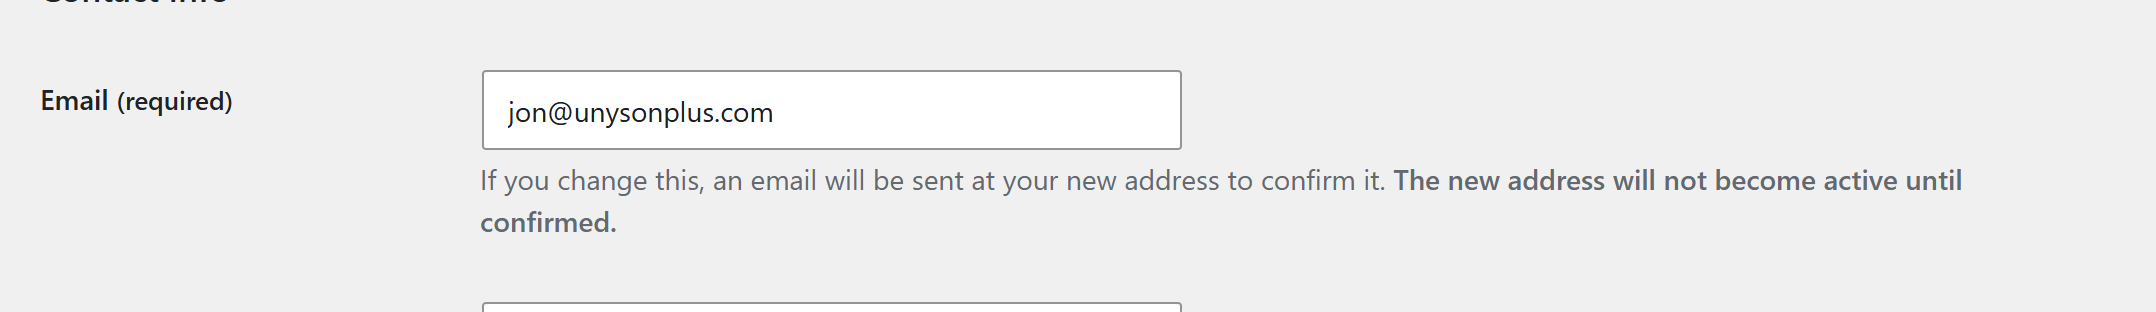
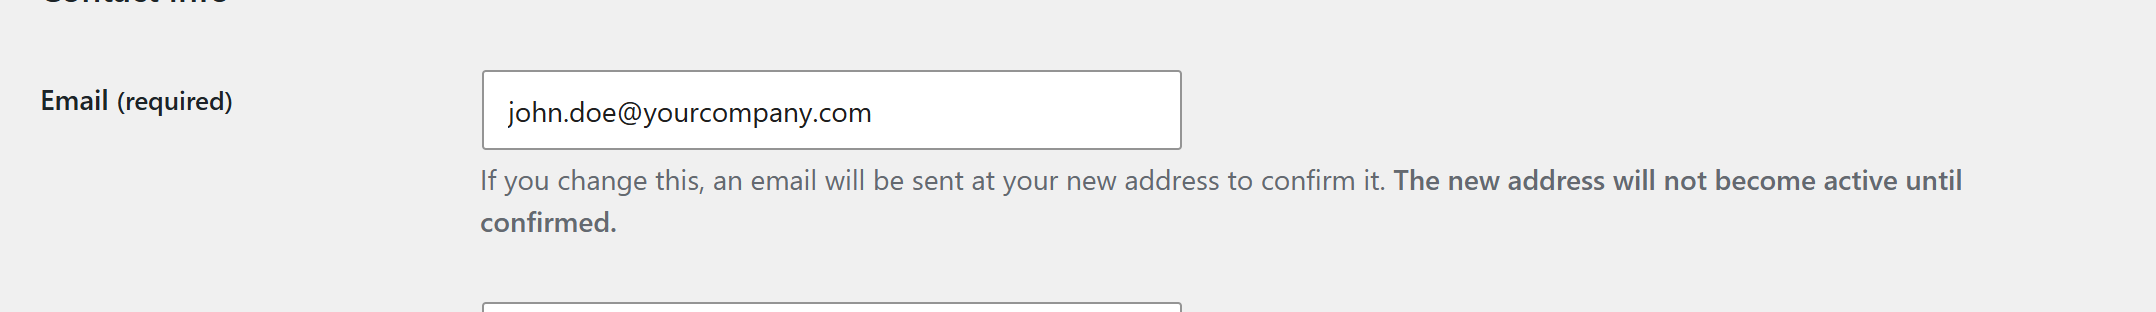
CRM docs: use a placeholder address in the email tutorial

Changed region(s): [[0.2486, 0.3173, 0.404, 0.4038]]

diff --git a/crm/sales/email-from-your-own-address.md b/crm/sales/email-from-your-own-address.md
@@ -9,7 +9,7 @@ keywords: [wordpress crm send email from my address, wordpress crm smtp, crm ema
 # Send email from your own address
 
 When you click **Email** on a contact, company or deal, the CRM sends a personal email for you. This tutorial
-makes those emails come from **your own address**, for example `jon@yourcompany.com`, and brings the replies back
+makes those emails come from **your own address**, for example `john.doe@yourcompany.com`, and brings the replies back
 to you and onto the contact's timeline.
 
 It takes about ten minutes. You need:
@@ -24,8 +24,8 @@ Three settings decide what the person you write to sees. Each step below sets on
 
 | What the reader sees | Where it comes from |
 |---|---|
-| **From name**: "Jon at Your Company" | Your **display name** in your WordPress profile, then "at", then the site's name |
-| **From address**: `jon@yourcompany.com` | The CRM's default **transactional sender** (CRM → Settings → Sending). With no sender set, the **Mailer's From address**. With neither, WordPress's own `wordpress@yourdomain` |
+| **From name**: "John at Your Company" | Your **display name** in your WordPress profile, then "at", then the site's name |
+| **From address**: `john.doe@yourcompany.com` | The CRM's default **transactional sender** (CRM → Settings → Sending). With no sender set, the **Mailer's From address**. With neither, WordPress's own `wordpress@yourdomain` |
 | **Reply-To**: where their reply goes | The **email address in your WordPress profile** |
 | **Your name under the message** | Your **display name** again |
 
@@ -33,7 +33,7 @@ How the email travels is separate: through the email service chosen on the sende
 SMTP server**, otherwise through your web host's own mail. Mail sent straight from a web host often lands in spam,
 so set up SMTP or an email service (step 2) even if the address already looks right.
 
-<img src="/img/crm/email-own-compose.png" alt="The New email box in the CRM, with Jon signed under the message and the note Replies go to jon@unysonplus.com" width="706" />
+<img src="/img/crm/email-own-compose.png" alt="The New email box in the CRM, with John signed under the message and the note Replies go to john.doe@yourcompany.com" width="706" />
 
 The email box shows the result before you send: the name under the message, and **Replies go to** with your address.
 
@@ -41,15 +41,15 @@ The email box shows the result before you send: the name under the message, and 
 
 Open **Users → Profile** (your own profile, top right of the admin bar).
 
-1. Under **Name**, set **Display name publicly as** to the name you sign with, such as "Jon". The CRM uses it as
+1. Under **Name**, set **Display name publicly as** to the name you sign with, such as "John". The CRM uses it as
    the From name and puts it under each new message.
 
-   <img src="/img/crm/email-own-profile-name.png" alt="The Display name publicly as field set to Jon" width="1078" />
+   <img src="/img/crm/email-own-profile-name.png" alt="The Display name publicly as field set to John" width="1078" />
 
-2. Under **Contact Info**, set **Email** to your own address, such as `jon@yourcompany.com`. Replies to your CRM
+2. Under **Contact Info**, set **Email** to your own address, such as `john.doe@yourcompany.com`. Replies to your CRM
    emails go here.
 
-   <img src="/img/crm/email-own-profile-email.png" alt="The Email field in the WordPress profile set to jon@unysonplus.com, with the note that a confirmation email is sent to the new address" width="1078" />
+   <img src="/img/crm/email-own-profile-email.png" alt="The Email field in the WordPress profile set to john.doe@yourcompany.com, with the note that a confirmation email is sent to the new address" width="1078" />
 
 3. Click **Update Profile**.
 
@@ -70,7 +70,7 @@ Open **CRM → Settings**, scroll to **Sending** and click **Mailer settings (SM
 site sends now. (The Mailer comes with the Forms extension; contact forms show the same settings in their **Mailer**
 tab.)
 
-<img src="/img/crm/email-own-mailer.png" alt="Mailer Settings: send method SMTP, server mail.unysonplus.com, user name and From address jon@unysonplus.com, SSL on port 465" width="1758" />
+<img src="/img/crm/email-own-mailer.png" alt="Mailer Settings: send method SMTP, server mail.yourcompany.com, user name and From address john.doe@yourcompany.com, SSL on port 465" width="1758" />
 
 1. **Send Method**: **SMTP**.
 2. **Server Address**, **Username**, **Password**, **Secure Connection** and **Custom Port**: your provider's SMTP
@@ -104,13 +104,13 @@ service under **Send with**.
 Open **CRM → Settings** and scroll to **Sending**.
 
 1. Click **Add a sender** and fill it in:
-   - **Name (for you)**: a label, such as "Jon";
+   - **Name (for you)**: a label, such as "John";
    - **From name**: used by campaigns and confirmations. Your own emails keep your display name;
-   - **From address**: `jon@yourcompany.com`;
+   - **From address**: `john.doe@yourcompany.com`;
    - **Reply-To (optional)**: leave it empty. Your own emails always reply to your profile address;
    - **Send with**: **The site's own mail (Mailer / SMTP)** for option A, or your email service for option B.
 
-   <img src="/img/crm/email-own-sender-form.png" alt="The sender form: name Jon, From name Jon at Unyson+, From address jon@unysonplus.com, Send with the site's own mail" width="1654" />
+   <img src="/img/crm/email-own-sender-form.png" alt="The sender form: name John, From name John Doe, From address john.doe@yourcompany.com, Send with the site's own mail" width="1654" />
 
 2. Click **Save sender**. The first sender becomes the default for both kinds of email.
 3. Under the table, check that **Transactional email from** shows your sender. One-to-one email is transactional.
@@ -118,14 +118,14 @@ Open **CRM → Settings** and scroll to **Sending**.
 4. Next to **Send a test with**, choose your sender, enter an address you can check (a personal one is best), and
    click **Send test**.
 
-<img src="/img/crm/email-own-senders.png" alt="CRM Settings, Sending: the sender Jon as marketing and transactional default, From Jon at Unyson+ jon@unysonplus.com, the Save defaults and Send test controls" width="1692" />
+<img src="/img/crm/email-own-senders.png" alt="CRM Settings, Sending: the sender John as marketing and transactional default, From John Doe john.doe@yourcompany.com, the Save defaults and Send test controls" width="1692" />
 
 Open the test email and check who it is from. In Gmail, **Show original** should say `SPF: PASS` and `DKIM: PASS`.
 
 :::tip Only want one address for everything?
 If the Mailer's **From Address** is already your address and you will not run campaigns from another address, you
 can skip the sender. With no sender, CRM email uses the Mailer's From address. A sender is still the way to send
-campaigns from one address (`news@`) and personal email from another (`jon@`).
+campaigns from one address (`news@`) and personal email from another (`john.doe@`).
 :::
 
 ## Step 4: Write your first email
